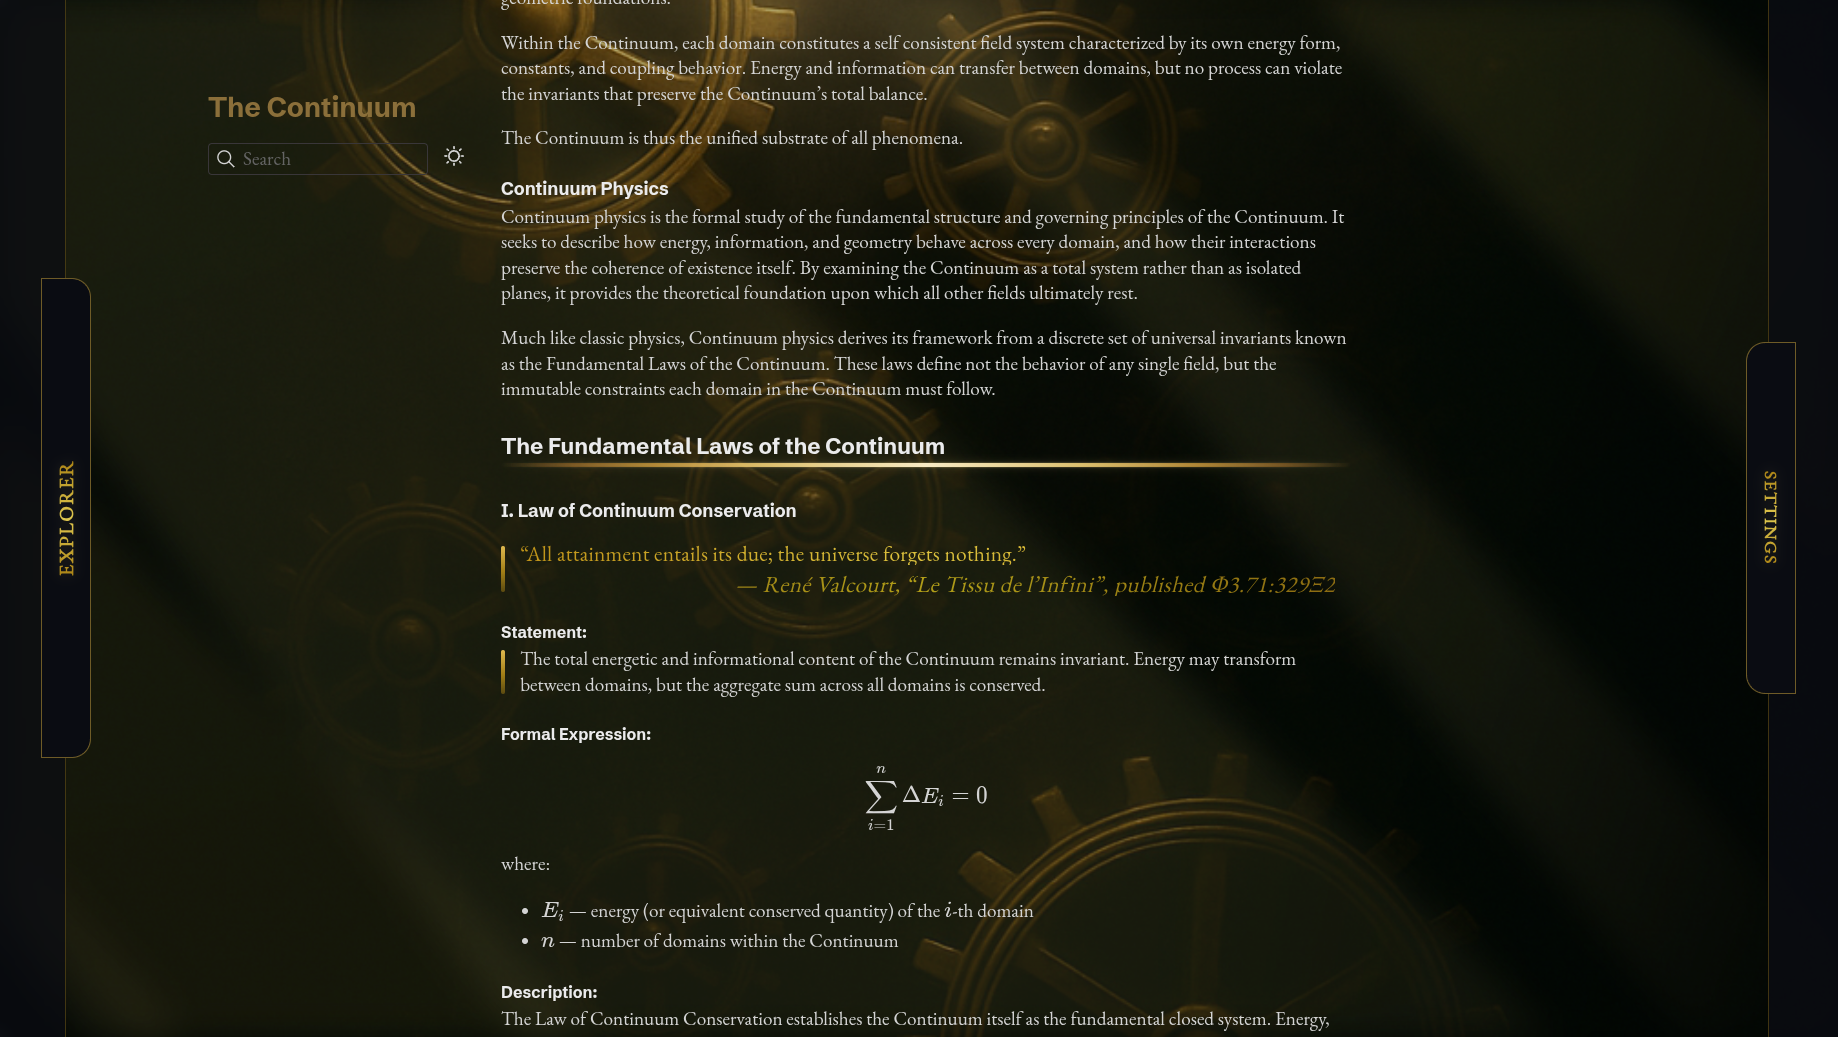
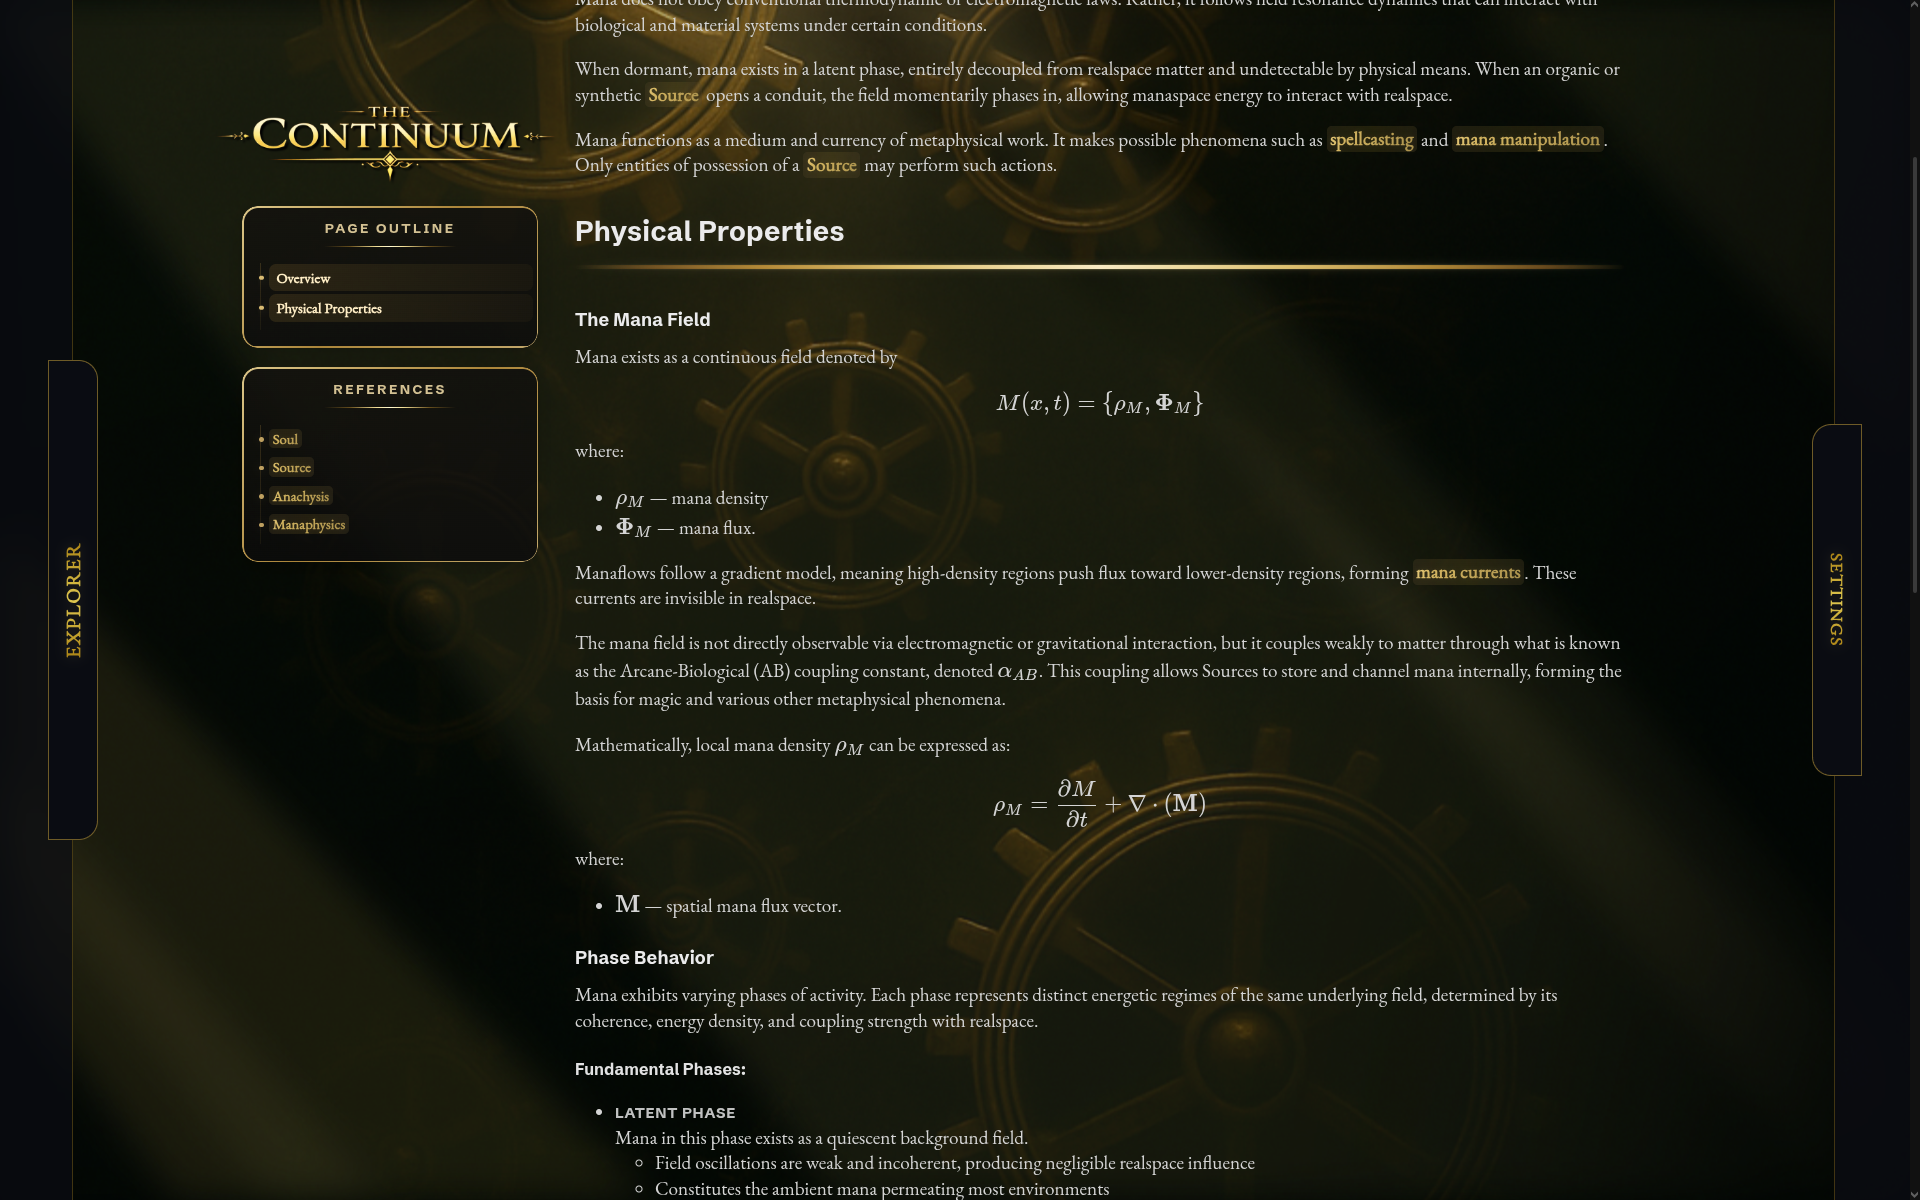
Updated website

diff --git a/src/pages/Projects.tsx b/src/pages/Projects.tsx
@@ -376,7 +376,7 @@ export default function Projects() {
               Github repo
             </a>{" "}
             ·{" "}
-            <a href="https://thecontinuum.vercel.app/en/" target="_blank" rel="noreferrer">
+            <a href="https://continuumarchives.com/en/" target="_blank" rel="noreferrer">
               Website
             </a>
           </p>
